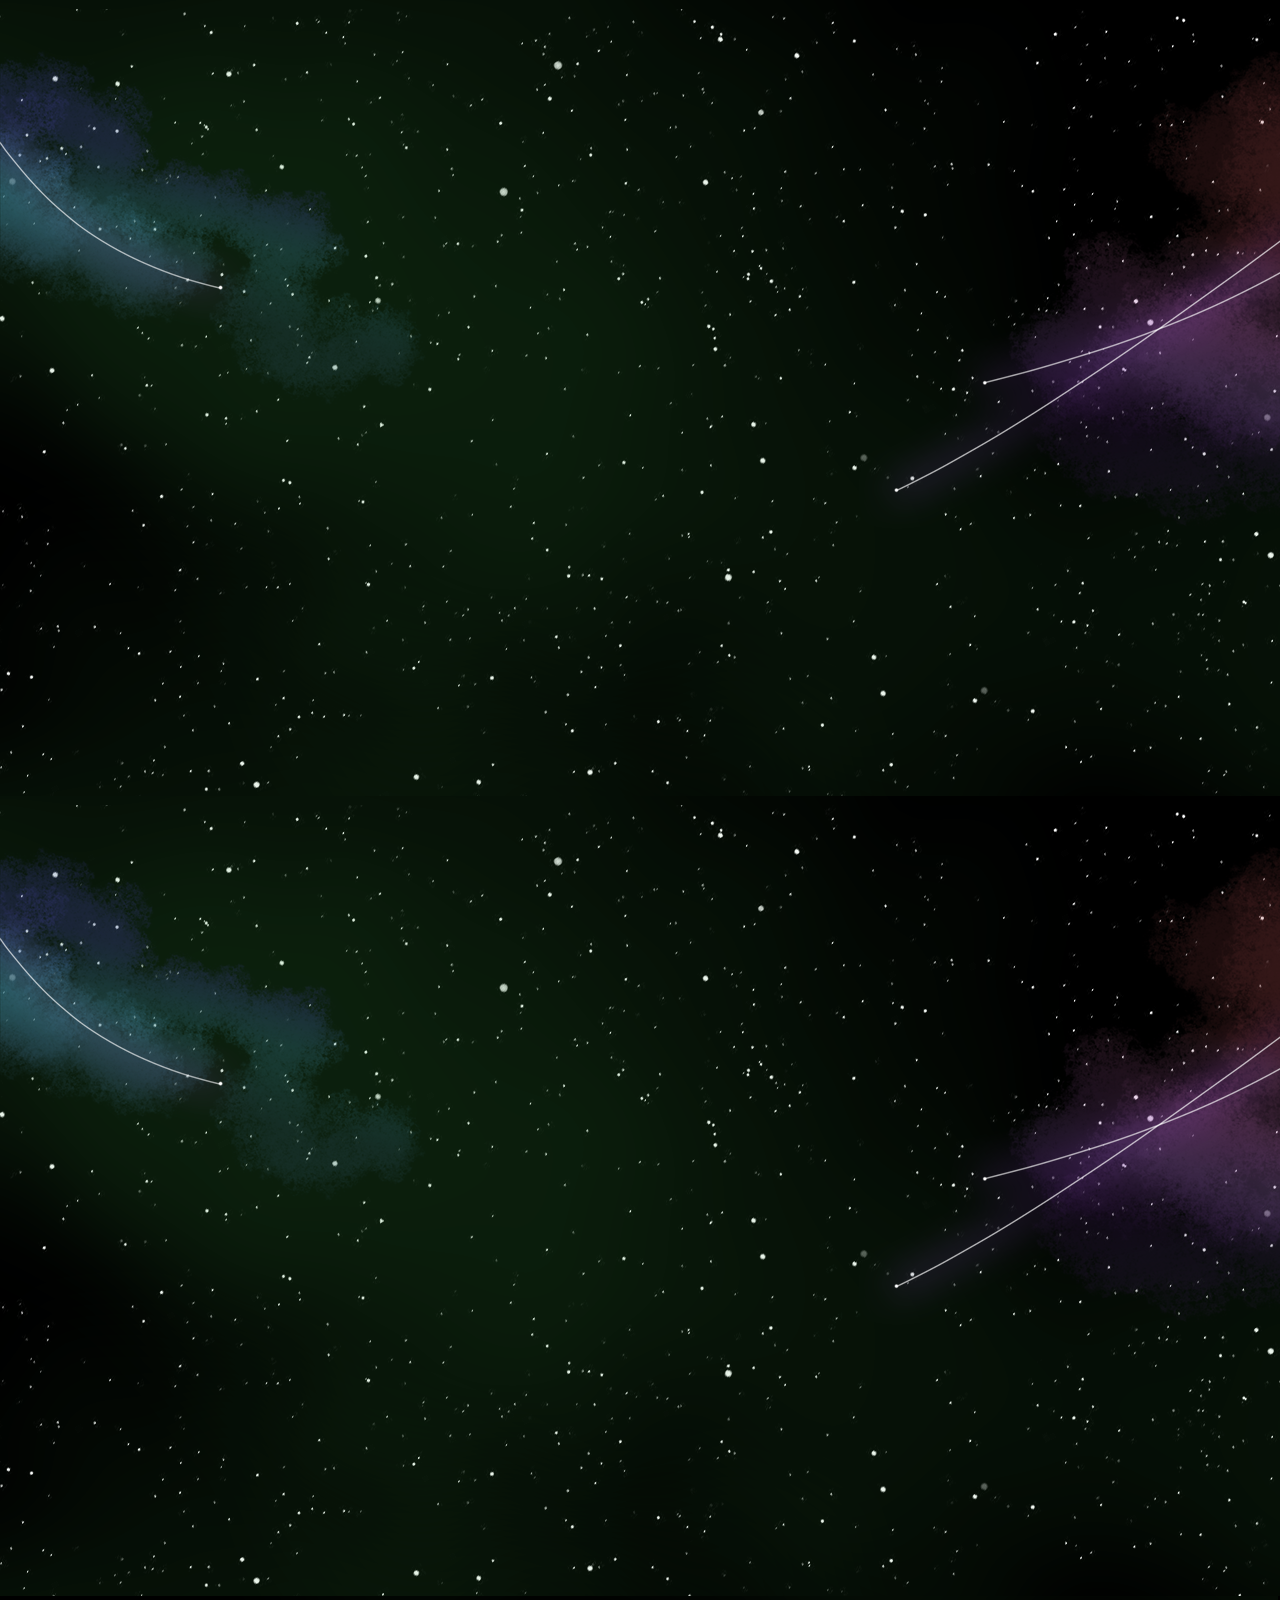
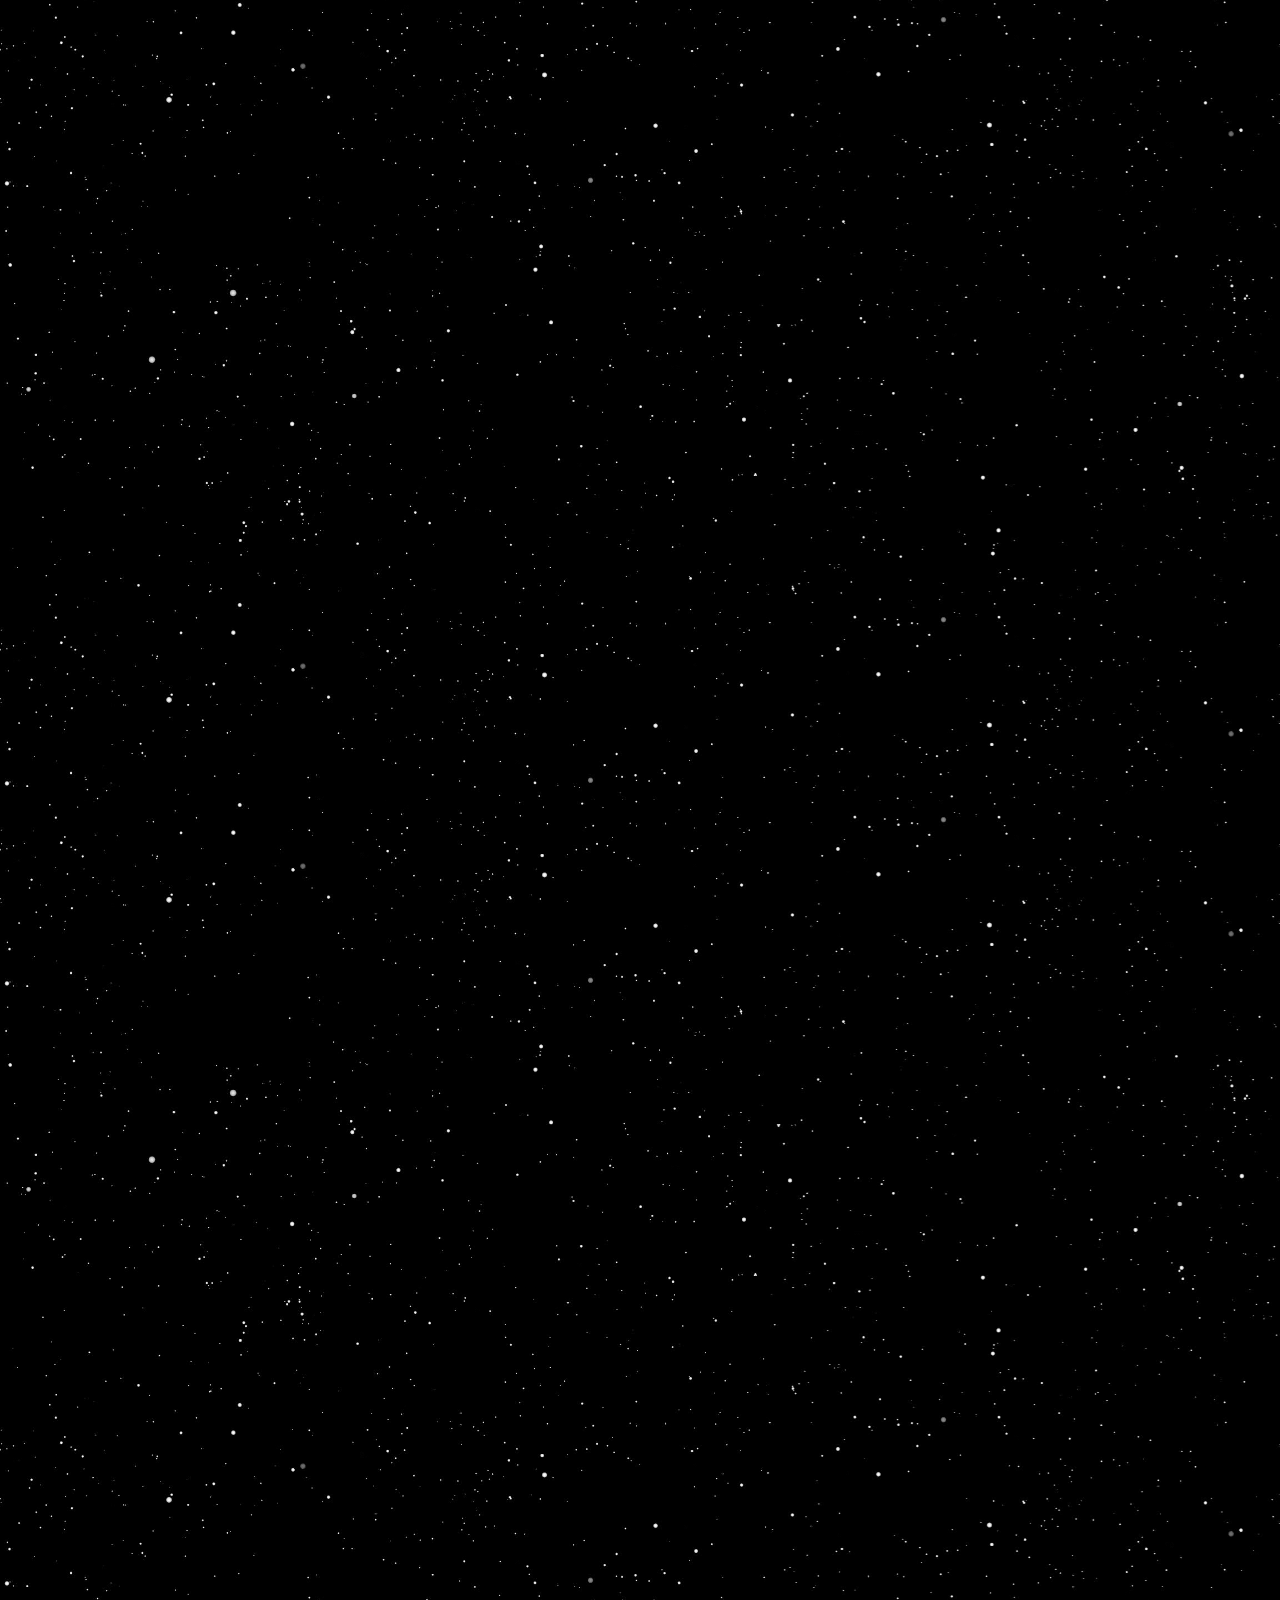
Better background, static cloud

diff --git a/src/TitleController.java b/src/TitleController.java
@@ -87,7 +87,7 @@ public class TitleController {
     public void initialize(){
         goBack();
 
-        TranslateTransition translateTransition = new TranslateTransition(Duration.millis(5000), spaceBackground);
+        TranslateTransition translateTransition = new TranslateTransition(Duration.millis(20000), spaceBackground);
         translateTransition.setFromY(-800);
         translateTransition.setToY(0);
         translateTransition.setInterpolator(Interpolator.LINEAR);
